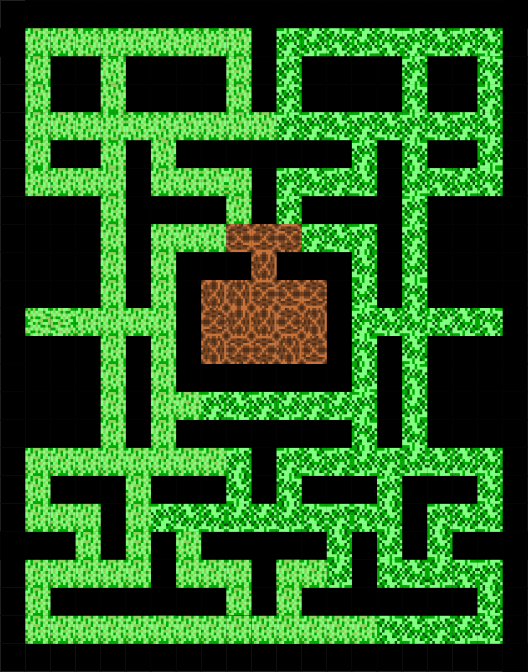
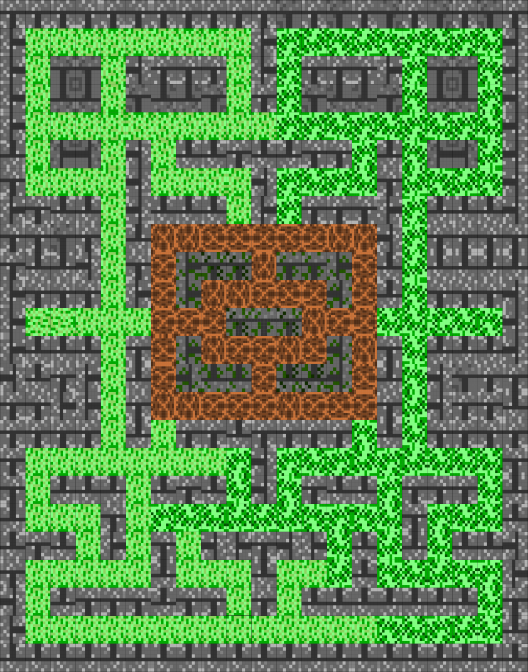
UI avanze

diff --git a/src/vista/PantallaFinal.java b/src/vista/PantallaFinal.java
@@ -5,6 +5,10 @@ import java.awt.Font;
 
 import javax.swing.JPanel;
 import javax.swing.SwingConstants;
+
+import datos.JugadorDatos;
+import datos.Serializador;
+
 import javax.swing.JLabel;
 
 public class PantallaFinal extends JPanel implements State {
@@ -19,11 +23,13 @@ public class PantallaFinal extends JPanel implements State {
 	
 	private Slider<Character> letra3;
 	
-	private JLabel lblLetra1;
+	private JLabel[] letras;
+
+	private Slider<Slider<Character>> sliderGeneral;
 	
-	private JLabel lblLetra2;
+	private Font mainFont;
 	
-	private JLabel lblLetra3;
+	private int points;
 	
 	private JPanel panel;
 	private JLabel lblGameOver;
@@ -31,22 +37,27 @@ public class PantallaFinal extends JPanel implements State {
 	private JLabel lblpuntos;
 	private JLabel lblIngreseSiglas;
 	private JLabel lblApreteEnterPara;
+	private JLabel lblLetra1;
+	private JLabel lblLetra2;
+	private JLabel lblLetra3;
 	
-	public PantallaFinal(UserInterface UI, Font h1, String text) {
+	public PantallaFinal(UserInterface UI, Font h1, String text, int points) {
 
 		miUI=UI;
+		
+		this.points=points;
 		
 		panel=new JPanel();
 		panel.setBackground(Color.BLACK);
 		panel.setLayout(null);
 		
-		Font mainFont=h1;
+		mainFont=h1;
 		
 		mainFont=mainFont.deriveFont(32f);
 		
 		lblLetra1 = new JLabel("A");
 		lblLetra1.setFont(mainFont);
-		lblLetra1.setForeground(Color.WHITE);
+		lblLetra1.setForeground(Color.YELLOW);
 		lblLetra1.setHorizontalAlignment(SwingConstants.CENTER);
 		lblLetra1.setBounds(68, 354, 147, 104);
 		panel.add(lblLetra1);
@@ -72,7 +83,7 @@ public class PantallaFinal extends JPanel implements State {
 		lblLogroHacer.setBounds(68, 166, 451, 104);
 		panel.add(lblLogroHacer);
 		
-		lblpuntos = new JLabel("[PUNTOS]");
+		lblpuntos = new JLabel(points+"");
 		lblpuntos.setHorizontalAlignment(SwingConstants.CENTER);
 		lblpuntos.setForeground(Color.WHITE);
 		lblpuntos.setFont(mainFont);
@@ -105,41 +116,61 @@ public class PantallaFinal extends JPanel implements State {
 		lblApreteEnterPara.setFont(mainFont);
 		lblApreteEnterPara.setBounds(10, 469, 580, 82);
 		panel.add(lblApreteEnterPara);
-	}
-	
-	/**
-	 * @wbp.parser.constructor
-	 */
-	public PantallaFinal(UserInterface UI, Font h1) {
-		this(UI,h1,"GAME OVER");
+		
+		sliderGeneral=new Slider<Slider<Character>>(3);
+		
+		letra1=new Slider<Character>(26);
+		letra2=new Slider<Character>(26);
+		letra3=new Slider<Character>(26);
+		
+		sliderGeneral.setOptionAtN(letra1, 1);
+		sliderGeneral.setOptionAtN(letra2, 2);
+		sliderGeneral.setOptionAtN(letra3, 3);
+		
+		for(int i=1; i<=26; i++) letra1.setOptionAtN((char) (64+i), i);
+		for(int i=1; i<=26; i++) letra2.setOptionAtN((char) (64+i), i);
+		for(int i=1; i<=26; i++) letra3.setOptionAtN((char) (64+i), i);
+		
+		letras= new JLabel[3];
+		
+		letras[0]=lblLetra1;
+		letras[1]=lblLetra2;
+		letras[2]=lblLetra3;
 	}
 
 	public void seApretoDerecha() {
-		// TODO Auto-generated method stub
-		
+		letras[sliderGeneral.getSliderSelection()].setForeground(Color.WHITE);
+		sliderGeneral.slideClockwise();
+		letras[sliderGeneral.getSliderSelection()].setForeground(Color.YELLOW);
 	}
 
 	public void seApretoIzquierda() {
-		// TODO Auto-generated method stub
-		
+		letras[sliderGeneral.getSliderSelection()].setForeground(Color.WHITE);
+		sliderGeneral.slideAnticlockwise();
+		letras[sliderGeneral.getSliderSelection()].setForeground(Color.YELLOW);
 	}
 
 	@Override
 	public void seApretoAbajo() {
-		// TODO Auto-generated method stub
-		
+		Slider<Character> selectedKey=sliderGeneral.getOptionSelected();
+		selectedKey.slideClockwise();
+		letras[sliderGeneral.getSliderSelection()].setText(selectedKey.getOptionSelected()+"");
 	}
 
 	@Override
 	public void seApretoArriba() {
-		// TODO Auto-generated method stub
-		
+		Slider<Character> selectedKey=sliderGeneral.getOptionSelected();
+		selectedKey.slideAnticlockwise();
+		letras[sliderGeneral.getSliderSelection()].setText(selectedKey.getOptionSelected()+"");
 	}
 
 	@Override
 	public void seApretoEnter() {
-		// TODO Auto-generated method stub
-		
+		State estadoNuevo=new MenuPrincipal(miUI, 0, mainFont);
+		String playerName=letras[0].getText()+letras[1].getText()+letras[2].getText();
+		miUI.cambiarEstado(estadoNuevo, estadoNuevo.getName());
+		Serializador serializer=new Serializador();
+		serializer.guardarJugador(new JugadorDatos(playerName, points));;
 	}
 
 	@Override

diff --git a/src/vista/PantallaPuntajes.java b/src/vista/PantallaPuntajes.java
@@ -7,6 +7,9 @@ import javax.swing.JLabel;
 import java.awt.Font;
 import javax.swing.SwingConstants;
 
+import datos.JugadorDatos;
+import datos.Serializador;
+
 public class PantallaPuntajes implements State {
 
 	private static final String stateName="Pantalla de puntajes"; 
@@ -20,6 +23,9 @@ public class PantallaPuntajes implements State {
 	// private SerializadorDatos misDatos;
 	
 	public PantallaPuntajes(UserInterface UI, Font h1) {
+		Serializador serializer=new Serializador();
+		Iterable<JugadorDatos> top7=serializer.obtenerTopPlayers();
+		
 		miUI=UI;
 
 		panel=new JPanel();
@@ -218,6 +224,34 @@ public class PantallaPuntajes implements State {
 		lblApreteEspacioPara.setFont(mainFont);
 		lblApreteEspacioPara.setBounds(10, 497, 580, 50);
 		panel.add(lblApreteEspacioPara);
+		
+		JLabel[] jugadores=new JLabel[7];
+		
+		jugadores[0]=lblJugador_1;
+		jugadores[1]=lblJugador_2;
+		jugadores[2]=lblJugador_3;
+		jugadores[3]=lblJugador_4;
+		jugadores[4]=lblJugador_5;
+		jugadores[5]=lblJugador_6;
+		jugadores[6]=lblJugador_7;
+
+		JLabel[] puntos=new JLabel[7];
+		
+		puntos[0]=lblPuntos_1;
+		puntos[1]=lblPuntos_2;
+		puntos[2]=lblPuntos_3;
+		puntos[3]=lblPuntos_4;
+		puntos[4]=lblPuntos_5;
+		puntos[5]=lblPuntos_6;
+		puntos[6]=lblPuntos_7;
+		
+		int cont=0;
+		
+		for(JugadorDatos jugador: top7) {
+			jugadores[cont].setText(jugador.getNombre());
+			puntos[cont].setText(jugador.getPuntaje()+"");
+			cont++;
+		}
 	}
 	
 	@Override

diff --git a/src/vista/PantallaNivel.java b/src/vista/PantallaNivel.java
@@ -240,8 +240,8 @@ public class PantallaNivel extends JPanel implements State {
         return new ImageIcon(imgResized);
     }
 	
-	private void pantallaFinal(String text) {
-		State estadoNuevo=new PantallaFinal(miUI, mainFont, text);
+	private void pantallaFinal(String text, int points) {
+		State estadoNuevo=new PantallaFinal(miUI, mainFont, text, points);
 		miUI.setSize(600, 600);
 		miUI.cambiarEstado(estadoNuevo, estadoNuevo.getName());
 	}

diff --git a/src/vista/SeleccionarSkin.java b/src/vista/SeleccionarSkin.java
@@ -93,7 +93,7 @@ public class SeleccionarSkin extends JPanel implements State{
 		
 		icons=new Icon[2];
 		
-		icons[0]=new ImageIcon(MenuPrincipal.class.getResource("../recursos/imagenes/gunpowder.png"));
+		icons[0]=new ImageIcon(MenuPrincipal.class.getResource("../recursos/imagenes/tnt.png"));
 		icons[1]=new ImageIcon(MenuPrincipal.class.getResource("../recursos/imagenes/tnt.png"));
 		
 		lblImagen.setIcon(icons[0]);

diff --git a/src/vista/UserInterface.java b/src/vista/UserInterface.java
@@ -51,7 +51,7 @@ public class UserInterface extends JFrame {
 			e.printStackTrace();
 		}	
 		
-		fabrica=new FabricaNether(); //TODO modificado
+		fabrica=new FabricaOverworld();
 		
 		miEstado=new MenuPrincipal(this, 0, mainFont);
 		
